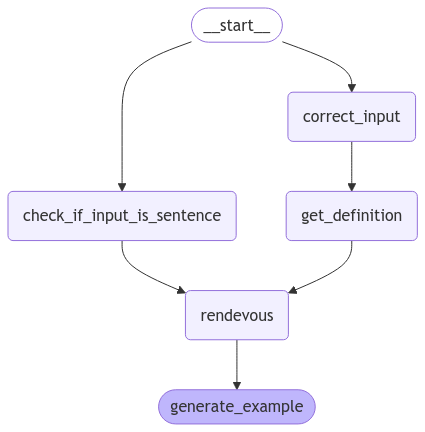
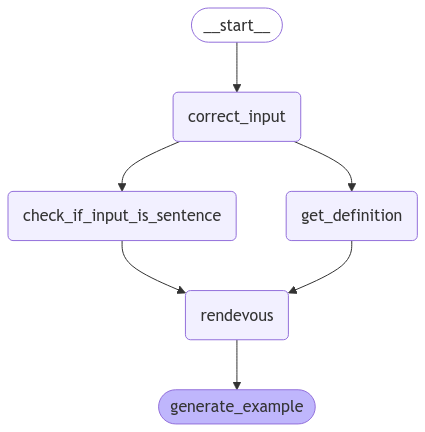
feat: extract vocab from sentence and correct spelling errors

diff --git a/frontend/components/card-section.tsx b/frontend/components/card-section.tsx
@@ -3,9 +3,9 @@
 import { Copy } from "lucide-react";
 import { ICorrectionItem } from "@/models/Correction";
 import { IExtraQuestion } from "@/models/ExtraQuestions";
-import ReactMarkdown from "react-markdown";
 import { Spinner } from "./ui/spinner";
 import { useToast } from "@/components/ui/use-toast";
+import ReactMarkdown from "react-markdown";
 
 interface Props {
   title: string;
@@ -39,8 +39,10 @@ const CorrectionListContent = ({
         onClick={() => onCopy?.(item.correction + "\n" + item.explanation)}
         className="group relative cursor-pointer hover:bg-muted/50 pr-8"
       >
-        <p className="font-medium">{item.correction}</p>
-        <p className="text-sm text-muted-foreground mt-1">{item.explanation}</p>
+        <ReactMarkdown className="font-medium">{item.correction}</ReactMarkdown>
+        <ReactMarkdown className="text-sm text-muted-foreground mt-1">
+          {item.explanation}
+        </ReactMarkdown>
         <div className="absolute right-0 top-0">
           <Copy className="h-4 w-4 opacity-0 group-hover:opacity-100 transition-opacity" />
         </div>
@@ -57,16 +59,20 @@ const ExtraQuestionListContent = ({
   onCopy?: (text: string) => void;
 }) => {
   return (
-    <ul className="pl-4 space-y-1">
+    <ul className="pl-4 space-y-1 list-disc">
       {content.map((item, index) => (
         <li
           key={index}
-          className="group relative cursor-pointer hover:bg-muted/50"
+          className="group relative cursor-pointer hover:bg-muted/50 "
           onClick={() => onCopy?.("Q. " + item.question + "\n" + item.answer)}
         >
           <div className="pr-8">
-            <p className="font-medium">Q. {item.question}</p>
-            <p className="text-sm text-muted-foreground mt-1">{item.answer}</p>
+            <ReactMarkdown className="font-medium">
+              {item.question}
+            </ReactMarkdown>
+            <ReactMarkdown className="text-sm text-muted-foreground mt-1">
+              {item.answer}
+            </ReactMarkdown>
           </div>
           <div className="absolute right-0 top-0">
             <Copy className="h-4 w-4 opacity-0 group-hover:opacity-100 transition-opacity" />
@@ -92,7 +98,7 @@ const StringListContent = ({
         onClick={() => onCopy?.(item)}
       >
         <div className="pr-8">
-          <p className="">{item}</p>
+          <ReactMarkdown>{item}</ReactMarkdown>
         </div>
         <div className="absolute right-0 top-0">
           <Copy className="h-4 w-4 opacity-0 group-hover:opacity-100 transition-opacity" />
@@ -108,29 +114,31 @@ const StringContent = ({
 }: {
   content: string;
   onCopy?: (text: string) => void;
-}) => (
-  <div
-    className="relative group text-foreground/90 pr-8 cursor-pointer hover:bg-muted/50"
-    onClick={() => onCopy?.(content)}
-  >
-    <ReactMarkdown
-      components={{
-        p: ({ node, ...props }) => <p className="" {...props} />,
-        ul: ({ node, ...props }) => (
-          <ul className="stringList-disc pl-4 space-y-1" {...props} />
-        ),
-        li: ({ node, ...props }) => (
-          <li className="group relative" {...props} />
-        ),
-      }}
+}) => {
+  return (
+    <div
+      className="relative group text-foreground/90 pr-8 cursor-pointer hover:bg-muted/50"
+      onClick={() => onCopy?.(content)}
     >
-      {content}
-    </ReactMarkdown>
-    <div className="absolute right-0 top-0">
-      <Copy className="h-4 w-4 opacity-0 group-hover:opacity-100 transition-opacity" />
+      <ReactMarkdown
+        components={{
+          p: ({ node, children }) => <p className="my-2">{children}</p>,
+          ul: ({ node, children }) => (
+            <ul className="list-disc pl-4 space-y-1">{children}</ul>
+          ),
+          ol: ({ node, children }) => (
+            <ol className="list-decimal pl-4 space-y-1">{children}</ol>
+          ),
+        }}
+      >
+        {content}
+      </ReactMarkdown>
+      <div className="absolute right-0 top-0">
+        <Copy className="h-4 w-4 opacity-0 group-hover:opacity-100 transition-opacity" />
+      </div>
     </div>
-  </div>
-);
+  );
+};
 
 export function CardSection({ title, content, variant = "string" }: Props) {
   const { toast } = useToast();

diff --git a/frontend/components/home-input-panel.tsx b/frontend/components/home-input-panel.tsx
@@ -45,12 +45,12 @@ export const HomeInputPanel = ({
   const [placeholder, setPlaceholder] = useState<string>("");
   const { toast } = useToast();
 
-  const set_default_entry = (type: EntryType) => {
+  const set_default_entry = (input_text: string, type: EntryType) => {
     setEntries((prev: Entry[]) => {
       return [
         {
           id: "default_entry_id",
-          input: currentText,
+          input: input_text,
           createdAt: new Date(),
           type: type,
         } as Entry,
@@ -107,7 +107,7 @@ export const HomeInputPanel = ({
   ) => {
     websocket.onmessage = async (event) => {
       const response = JSON.parse(event.data);
-
+      console.log(response);
       if (response.error) {
         // remove default entry when there is an error
         setEntries((prev: Entry[]) => {
@@ -135,14 +135,39 @@ export const HomeInputPanel = ({
     type: EntryType,
     entryUpdateLogic: (prev: Entry[], response: any) => Entry[]
   ) => {
+    let input_text = currentText;
+    console.log("input_text", input_text);
+    
     if (!currentText.trim()) {
-      toast({
-        title: "Error",
-        description: "Please enter some text to analyze",
-        variant: "destructive",
-        duration: 4000,
-      });
-      return;
+      // When input is empty, try to read from clipboard
+      try {
+        const clipboardText = await navigator.clipboard.readText();
+        input_text = clipboardText;
+      } catch (clipboardError) {
+        console.log("Clipboard access not available:", clipboardError);
+      }
+      if (
+        input_text.includes(`”
+
+Excerpt From`)
+      ) {
+        input_text = input_text
+          .split(
+            `”
+
+Excerpt From`
+          )[0]
+          .slice(1);
+        console.log("input_text", input_text);
+      } else {
+        toast({
+          title: "Error",
+          description: "Please enter some text to analyze",
+          variant: "destructive",
+          duration: 4000,
+        });
+        return;
+      }
     }
 
     const websocket = connectWebSocket(type);
@@ -151,7 +176,7 @@ export const HomeInputPanel = ({
     }
 
     try {
-      set_default_entry(type);
+      set_default_entry(input_text,type);
       setCurrentText("");
       await Promise.race([
         new Promise((resolve, reject) => {
@@ -172,7 +197,7 @@ export const HomeInputPanel = ({
 
       websocket.send(
         JSON.stringify({
-          input: currentText,
+          input: input_text,
           user_id: session?.user?.id || "temporary_user",
         })
       );

diff --git a/backend/app/workflows/vocabulary.py b/backend/app/workflows/vocabulary.py
@@ -51,13 +51,18 @@ input: {input}
         | chat_model.with_structured_output(IsSentenceResponse)
     ).invoke(
         {
-            "input": state.input,
+            "input": state.vocabulary,
         }
     )
 
     if response.is_sentence:
-        writer({"example": state.input})
-        return {"examples": [state.input]}
+        writer(
+            {
+                "example": state.vocabulary,
+                "extracted_word": state.vocabulary.split("**")[1],
+            }
+        )
+        return {"examples": [state.vocabulary]} #! This gets duplicated when rendevous node is reached
     else:
         return {}
 
@@ -67,18 +72,28 @@ def correct_input(state: OverallState, writer: StreamWriter):
 
     corrected_input = (
         ChatPromptTemplate.from_template(
-            """Correct spelling or grammar errors. Here are some examples:
+            """Correct spelling, punctuation, capitalization, and grammar errors. 
+
+Here are some examples:
 
 input: debiliteting
-output: Debilitate 
+output: debilitating
 
-input: **<u>at disposal</u>**
-output: At one's disposal
+input: at disposal
+output: at one's disposal
 
-input: **<u>convei</u>**
-output: Convey
+input: do we have that **in place**?
+output: Do we have that **in place**?
 
-input: 
+input: the term of endearment wass spoken more **wistfully** than with the cozy affeaction it once hold
+output: The term of endearment was spoken more **wistfully** than with the cozy affection it once holds.
+
+input: convei
+output: convey
+
+input: it's about **the whole gamut of** things that are required to buiild a home
+output: It's about **the whole gamut of** things that are required to build a home.
+
 ---
 
 Now it's your turn!
@@ -87,8 +102,14 @@ input: {input}
 
 ---
 
-Don't add "output: " or "certainly, here is the corrected input: ". Only return the corrected input.
-When there is no correction required, then return the original input. Don't add any explanation or preambles such as "This sentence is grammatically correct:" or "(No correction needed)".""")
+Important Rules!!
+
+- Don't add "output: " or "certainly, here is the corrected input: ". Only return the corrected input.
+- When there is no correction required, then return the original input. Don't add any explanation or preambles such as "This sentence is grammatically correct:" or "(No correction needed)".
+- Keep markdown bold styling(**bold text**).
+- Only capitalize the first letter of the word if the input is a sentence. For words and phrases, keep it lowercase.
+"""
+        )
         | chat_model
         | StrOutputParser()
     ).invoke(
@@ -97,11 +118,10 @@ When there is no correction required, then return the original input. Don't add 
         }
     )
 
-    # Stream the output via StreamWriter
-    writer({"vocabulary": corrected_input})
+    writer({"corrected_input": corrected_input})
 
     if corrected_input == "":
-        raise Error("correct_input Node returned empty string")
+        raise ValueError("Failed to correct input: received empty string from correction node")
 
     return {
         "vocabulary": corrected_input,
@@ -119,7 +139,7 @@ You are an expert in English vocabulary. You are given a word or phrase or a sen
 ---
 
 input: Buoy
-definition: a floating object used to mark the position of a hazard in the water
+definition: A floating object used to mark the position of a hazard in the water
 
 input: What none of the volunteers knew until they arrived for the study was the method we would be using, one of the most powerful techniques scientists have **<u>at our disposal</u>** for stressing people out in the lab
 definition: In this context, "at our disposal" means "available for us to use." It suggests that the scientists have access to this powerful technique and can use it as a tool or resource for their experiments.
@@ -146,7 +166,7 @@ Important!!
         | StrOutputParser()
     ).invoke(
         {
-            "input": state.input,
+            "input": state.vocabulary,
         }
     )
 
@@ -187,7 +207,7 @@ Don't generate "output: " or "here is the example sentence: ". Only return the e
         | StrOutputParser()
     ).invoke(
         {
-            "input": state.input,
+            "input": state.vocabulary,
             "definition": state.definition,
             "examples": "\n".join(state.examples),
             "aboutMe": state.aboutMe,
@@ -204,10 +224,10 @@ Don't generate "output: " or "here is the example sentence: ". Only return the e
 
 g = StateGraph(OverallState, input=InputState, output=OutputState)
 g.add_edge(START, n(correct_input))
-g.add_edge(START, n(check_if_input_is_sentence))
 
 g.add_node(n(correct_input), correct_input)
 g.add_edge(n(correct_input), n(get_definition))
+g.add_edge(n(correct_input), n(check_if_input_is_sentence))
 
 g.add_node(n(get_definition), get_definition)
 g.add_edge(n(get_definition), "rendevous")

diff --git a/backend/main.py b/backend/main.py
@@ -62,7 +62,7 @@ async def correction_ws(websocket: WebSocket):
         await websocket.accept()
         data = await websocket.receive_json()
 
-        type = ResponseType.CORRECTION
+        type = ResponseType.CORRECTION.value
         input = data.get("input")
         user_id = data.get("user_id")
 
@@ -124,7 +124,7 @@ async def vocabulary_ws(websocket: WebSocket):
         await websocket.accept()
         data = await websocket.receive_json()
 
-        type = ResponseType.VOCABULARY
+        type = ResponseType.VOCABULARY.value
         input = data.get("input")
         user_id = data.get("user_id")
 
@@ -141,8 +141,7 @@ async def vocabulary_ws(websocket: WebSocket):
             input=input,
             aboutMe=aboutMe,
         )
-        print("compile graph for ", type.value)
-        workflow = await compile_graph_with_async_checkpointer(graph, type.value)
+        workflow = await compile_graph_with_async_checkpointer(graph, type)
 
         result_id = result.id
         result_id_str = str(result_id)
@@ -160,10 +159,14 @@ async def vocabulary_ws(websocket: WebSocket):
                 "id": result_id_str,
                 "type": type,
             }
-            if "vocabulary" in data.keys():
-                correctedInput = data["vocabulary"]
-                result.input = correctedInput
-                response_data["input"] = correctedInput
+            if "extracted_word" in data.keys():
+                extracted_word = data["extracted_word"]
+                result.input = extracted_word
+                response_data["input"] = extracted_word
+            elif "corrected_input" in data.keys():
+                corrected_input = data["corrected_input"]
+                result.input = corrected_input
+                response_data["input"] = corrected_input
 
             if "definition" in data.keys():
                 definition = data["definition"]
@@ -199,7 +202,7 @@ async def breakdown_ws(websocket: WebSocket):
         await websocket.accept()
         data = await websocket.receive_json()
 
-        type = ResponseType.BREAKDOWN
+        type = ResponseType.BREAKDOWN.value
         input = data.get("input")
         user_id = data.get("user_id")
 
@@ -272,7 +275,7 @@ async def general_ws(websocket: WebSocket):
         await websocket.accept()
         data = await websocket.receive_json()
 
-        type = ResponseType.GENERAL
+        type = ResponseType.GENERAL.value
         input = data.get("input")
         user_id = data.get("user_id")
 
